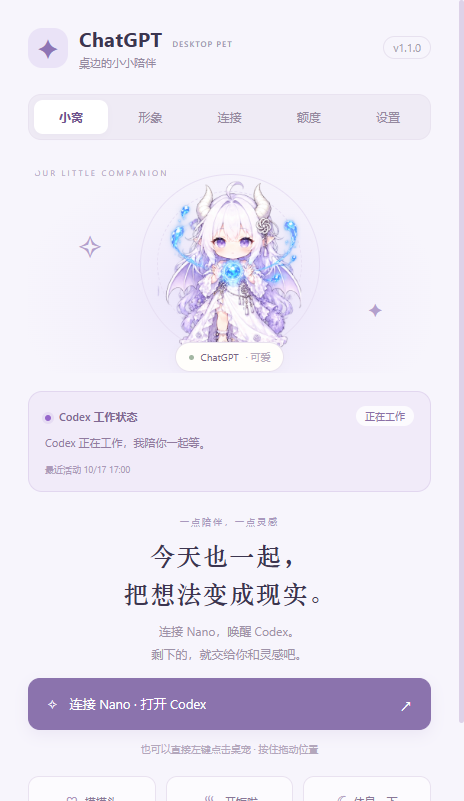
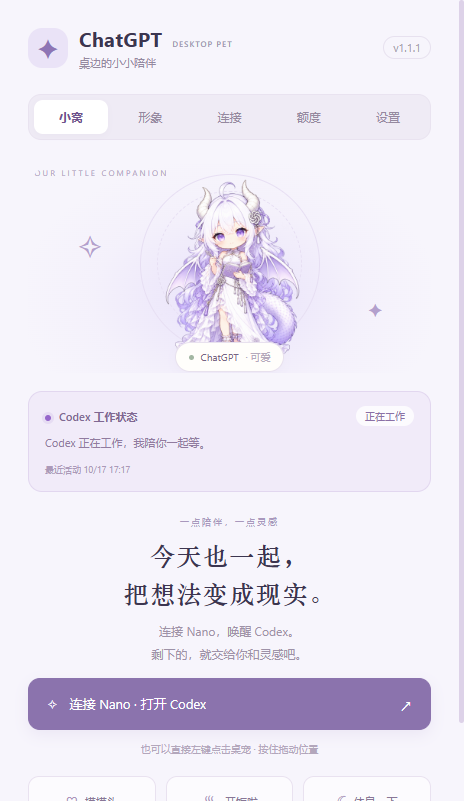
Fix bubble overlap and stale Codex status, redesign working poses

Changed region(s): [[0.3621, 0.2185, 0.6638, 0.437]]

diff --git a/src/renderer/panel.html b/src/renderer/panel.html
@@ -1,6 +1,6 @@
 <!doctype html>
 <html lang="zh-CN"><head><meta charset="utf-8"><meta name="viewport" content="width=device-width,initial-scale=1"><meta http-equiv="Content-Security-Policy" content="default-src 'self'; script-src 'self'; style-src 'self' 'unsafe-inline'; img-src 'self' data:; connect-src 'none'"><title>ChatGPT · 桌边的小小陪伴</title><link rel="stylesheet" href="panel.css"></head>
-<body><div class="app-shell"><header><div class="brand-icon">✦</div><div><div class="brand-name">ChatGPT <span>DESKTOP PET</span></div><p>桌边的小小陪伴</p></div><span class="version">v1.1.0</span></header>
+<body><div class="app-shell"><header><div class="brand-icon">✦</div><div><div class="brand-name">ChatGPT <span>DESKTOP PET</span></div><p>桌边的小小陪伴</p></div><span class="version">v1.1.1</span></header>
 <nav aria-label="页面"><button data-tab="home" class="selected">小窝</button><button data-tab="looks">形象</button><button data-tab="status">连接</button><button data-tab="usage">额度</button><button data-tab="settings">设置</button></nav>
 <main>
 <section id="home" class="page"><div class="hero"><div class="orbit one"></div><div class="orbit two"></div><span class="spark spark-a">✧</span><span class="spark spark-b">✦</span><span class="hero-label">YOUR LITTLE COMPANION</span><canvas class="hero-pet preview" width="500" height="500" aria-label="当前桌宠形象"></canvas><div class="name-tag"><span class="dot"></span><span id="pet-name">ChatGPT</span> <span class="tag-muted" id="appearance-label">· 可爱</span></div></div><div class="activity-card" id="activity-card" role="status" aria-live="polite"><div class="activity-heading"><strong><i class="activity-dot" aria-hidden="true"></i> Codex 工作状态</strong><span id="activity-label">正在读取</span></div><p id="activity-message">正在查看本机工作状态。</p><small id="activity-time"></small></div><div class="welcome"><span class="eyebrow">一点陪伴，一点灵感</span><h1>今天也一起，<br>把想法变成现实。</h1><p>连接 Nano，唤醒 Codex。<br>剩下的，就交给你和灵感吧。</p></div><button class="primary launch-button"><span>✧</span> 连接 Nano · 打开 Codex <span class="arrow">↗</span></button><p class="hint">也可以直接左键点击桌宠 · 按住拖动位置</p><div class="mini-actions"><button data-action="headpat"><span>♡</span>摸摸头</button><button data-action="eat"><span>♨</span>开饭啦</button><button data-action="crouch"><span>☾</span>休息一下</button></div></section>

diff --git a/src/renderer/pet.css b/src/renderer/pet.css
@@ -2,3 +2,6 @@
 
 /* Keep status legible even when the character is tiny. */
 #character{width:min(var(--pet-size,320px),100vw,calc(100vh - 60px));left:50%;margin-left:calc(min(var(--pet-size,320px),100vw,calc(100vh - 60px)) / -2);bottom:24px}#bubble{top:6px;left:50%;width:calc(100% - 16px);max-width:380px;padding:8px 12px;transform:translate(-50%,5px);font-size:12px;line-height:1.45}#bubble.visible{transform:translate(-50%,0)}.bubble-label{display:block;font-size:11px;color:#8c70b1;margin-bottom:3px}.bubble-message{display:block}#home{display:flex;align-items:center;gap:5px;white-space:nowrap;max-width:95%;padding:3px 10px}.activity-dot{display:inline-block;width:6px;height:6px;border-radius:50%;background:#a89ab8;flex-shrink:0}body[data-state="working"] .activity-dot,body[data-state="thinking"] .activity-dot,body[data-state="tool"] .activity-dot{background:#9a73d0;box-shadow:0 0 0 3px #b598d82b}body[data-state="completed"] .activity-dot{background:#81a98d}body[data-state="waiting"] .activity-dot,body[data-state="error"] .activity-dot{background:#c29a59}#bubble[data-state="working"],#bubble[data-state="thinking"],#bubble[data-state="tool"]{border-color:#cbb7e8}#bubble[data-state="waiting"],#bubble[data-state="error"]{border-color:#e5c99a}
+
+/* Separate flow rows guarantee that wrapped bubbles never cover a pose. */
+body{display:flex;flex-direction:column;align-items:center;justify-content:flex-end;gap:12px;padding-top:6px}#bubble{position:relative;top:auto;left:auto;flex:none;transform:none;margin:0 auto;transition:opacity .25s;max-height:none}#bubble.visible{transform:none}#bubble .bubble-message{display:-webkit-box;-webkit-box-orient:vertical;-webkit-line-clamp:4;overflow:hidden}#character-stage{position:relative;flex:none;width:100%;height:calc(var(--sprite-size,0px) + 24px);display:flex;align-items:center;justify-content:center;overflow:hidden}#character{position:static;flex:none;left:auto;bottom:auto;width:var(--sprite-size,0px);height:var(--sprite-size,0px);margin:0}#home{position:relative;left:auto;bottom:auto;transform:none;flex:none;margin:0;min-height:22px;line-height:14px}

diff --git a/src/renderer/pet.js b/src/renderer/pet.js
@@ -3,6 +3,13 @@ const canvas = document.querySelector('#character'), bubble = document.querySele
 let settings = await window.pet.getSettings(), action = 'idle', bubbleTimer, pressed, dragging = false, ignored = false;
 let activity = { state: 'unknown', label: '正在读取状态', message: '正在查看 Codex 的本机工作状态。', action: 'idle' };
 let manualAction = null, transientMessage = null;
+function layout() {
+  // The bubble, padded character stage and name occupy separate flow rows.
+  // Measure wrapped text instead of guessing how much headroom it needs.
+  const reserved = bubble.offsetHeight + home.offsetHeight + 6 + 24 + 24;
+  const size = Math.max(1, Math.min(320 * settings.scale, innerWidth, innerHeight - reserved));
+  document.documentElement.style.setProperty('--sprite-size', size + 'px');
+}
 function renderBubble() {
   const label = transientMessage ? 'ChatGPT' : activity.label.includes('Codex') ? activity.label : 'Codex · ' + activity.label;
   const message = transientMessage || activity.message;
@@ -12,6 +19,7 @@ function renderBubble() {
   bubble.dataset.state = activity.state;
   document.body.dataset.state = activity.state;
   home.title = '打开 ChatGPT 的小窝 · Codex ' + activity.label;
+  layout();
 }
 function say(text) {
   if (!text) return;
@@ -21,7 +29,6 @@ function say(text) {
 function render() {
   action = manualAction || activity.action || 'idle';
   document.body.classList.toggle('quiet', settings.quiet);
-  document.documentElement.style.setProperty('--pet-size', Math.round(320 * settings.scale) + 'px');
   drawSprite(canvas, settings.appearance, action).catch(error => say(error.message));
   renderBubble();
 }
@@ -65,4 +72,6 @@ window.pet.onUpdate(update => {
   render();
 });
 activity = await window.pet.activity();
+new ResizeObserver(layout).observe(bubble);
+window.addEventListener('resize', layout);
 render();

diff --git a/src/renderer/sprites.js b/src/renderer/sprites.js
@@ -1,7 +1,7 @@
 export const states = ['idle', 'wave', 'crouch', 'eat', 'headpat', 'sleep', 'busy', 'success'];
 const images = new Map();
-export function loadSheet(appearance) {
-  const name = appearance === 'mature' ? 'mature' : 'cute';
+export function loadSheet(appearance, working = false) {
+  const name = (appearance === 'mature' ? 'mature' : 'cute') + (working ? '-working' : '');
   if (!images.has(name)) images.set(name, new Promise((resolve, reject) => {
     const image = new Image(); image.onload = () => resolve(image); image.onerror = () => { images.delete(name); reject(new Error('角色图片加载失败')); }; image.src = `../../assets/${name}.png`;
   }));
@@ -9,12 +9,15 @@ export function loadSheet(appearance) {
 }
 export async function drawSprite(canvas, appearance = 'cute', action = 'idle') {
   const request = `${appearance}:${action}`; canvas.dataset.request = request;
-  const image = await loadSheet(appearance);
+  const working = action === 'busy';
+  const image = await loadSheet(appearance, working);
   if (canvas.dataset.request !== request) return;
-  const index = Math.max(0, states.indexOf(action)), sw = image.width / 4, sh = image.height / 2;
+  const index = working ? 0 : Math.max(0, states.indexOf(action));
+  const sw = image.width / (working ? 1 : 4), sh = image.height / (working ? 1 : 2);
   const context = canvas.getContext('2d', { willReadFrequently: true });
   const scale = Math.min(canvas.width / sw, canvas.height / sh);
   context.clearRect(0, 0, canvas.width, canvas.height);
   context.drawImage(image, (index % 4) * sw, Math.floor(index / 4) * sh, sw, sh, (canvas.width - sw * scale) / 2, canvas.height - sh * scale, sw * scale, sh * scale);
   canvas.dataset.action = action;
+  canvas.dataset.asset = (appearance === 'mature' ? 'mature' : 'cute') + (working ? '-working.png' : '.png');
 }

diff --git a/src/renderer/pet.html b/src/renderer/pet.html
@@ -1,3 +1,3 @@
 <!doctype html>
 <html lang="zh-CN"><head><meta charset="utf-8"><meta name="viewport" content="width=device-width,initial-scale=1"><meta http-equiv="Content-Security-Policy" content="default-src 'self'; script-src 'self'; style-src 'self' 'unsafe-inline'; img-src 'self' data:; connect-src 'none'"><title>ChatGPT桌宠</title><link rel="stylesheet" href="pet.css"></head>
-<body><div id="bubble" role="status" aria-live="polite"><strong class="bubble-label">Codex · 正在读取状态</strong><span class="bubble-message">正在查看本机工作状态。</span></div><canvas id="character" width="640" height="640" tabindex="0" aria-label="ChatGPT桌宠。单击连接 Nano 并打开 Codex，右键互动，拖动移动位置"></canvas><button id="home" title="打开ChatGPT的小窝" aria-label="打开控制面板"><i class="activity-dot" aria-hidden="true"></i><span>ChatGPT</span></button><script type="module" src="pet.js"></script></body></html>
+<body><div id="bubble" role="status" aria-live="polite"><strong class="bubble-label">Codex · 正在读取状态</strong><span class="bubble-message">正在查看本机工作状态。</span></div><div id="character-stage"><canvas id="character" width="640" height="640" tabindex="0" aria-label="ChatGPT桌宠。单击连接 Nano 并打开 Codex，右键互动，拖动移动位置"></canvas></div><button id="home" title="打开ChatGPT的小窝" aria-label="打开控制面板"><i class="activity-dot" aria-hidden="true"></i><span>ChatGPT</span></button><script type="module" src="pet.js"></script></body></html>

diff --git a/docs/art-working-v3.md b/docs/art-working-v3.md
@@ -1,0 +1,23 @@
+# Working pose redesign · 1.1.1
+
+The user requested a new working pose. Generated two individual transparent PNG sprites with the built-in `image_gen.imagegen` tool, retaining the existing character identity and layered long skirt. The new pose uses open, attentive eyes and a lavender notebook with a silver pen. It replaces the glowing-orb pose at runtime; all other poses remain unchanged.
+
+Final assets: `assets/cute-working.png` and `assets/mature-working.png`. The renderer fits each full image into its character canvas and preserves the generated alpha without raster edits.
+
+## Cute prompt
+
+```text
+Create ONE new full-body WORKING pose sprite for a desktop pet, actual transparent RGBA background. This is a redesign of the unpleasant glowing-orb working pose in the attached sprite sheet. Reference image 1 supplies the established character identity and flowing multilayer white/lavender long dress; reference image 2 supplies precise horns, ears, face, lavender dragon wings, white-to-lavender curled scaled tail, knot-shaped hair ornament and ahoge. Match the character consistently, especially the pleasant OPEN lavender eyes of the FIRST idle frame, NOT the sleepy heavy-lidded or stern expression of the old working frame.
+New design: she is quietly taking notes in a small elegant lavender notebook held at waist level in her left hand, with a slim silver pen naturally held in her right hand. Notebook low enough to reveal the neckline and most of the beautiful layered gown. Face looks slightly toward the viewer with bright attentive open eyes, a subtle warm smile and gentle focused expression. Natural graceful standing posture, relaxed shoulders, no exaggerated gesture. Softly folded but visible lavender dragon wings, tail curving beside the skirt. Keep both ivory ridged horns and the curled ahoge, long white-silver hair with lilac tips, woven knot hair ornament with tassel, small white shoes, and the previous elaborate cascading sheer white/lavender skirt. Clear face and clean silhouette, delicate polished anime illustration with crisp high quality lines and very soft shading.
+Output ONE isolated full-body character on a square 1024x1024 transparent canvas. Center horizontally, horns/ahoge around 5% down canvas and shoes/hem around 94% down; occupy roughly 90% canvas height with clear transparent margins around wings and tail. All hair, horns, skirt, wings, tail, pen and book completely inside frame, no cropped edges. NO sheet, NO multiple figures. No orb, no blue lights, no glowing swirl, no floating holograms, no particles or hearts, no text or watermark, no checkerboard or solid-color backdrop, no floor shadows. Fully clothed and nonsexual.
+CUTE variation: match the chibi identity of the reference: about 3 heads tall, large round bright lavender eyes, compact adorable body and small hands. Calm sweet concentration; cute and energetic without a childish pout.
+```
+
+## Mature prompt
+
+```text
+Create ONE new full-body WORKING pose sprite for a desktop pet, actual transparent RGBA background. This is a redesign of the unpleasant glowing-orb working pose in the attached sprite sheet. Reference image 1 supplies the established character identity and flowing multilayer white/lavender long dress; reference image 2 supplies precise horns, ears, face, lavender dragon wings, white-to-lavender curled scaled tail, knot-shaped hair ornament and ahoge. Match the character consistently, especially the pleasant OPEN lavender eyes of the FIRST idle frame, NOT the sleepy heavy-lidded or stern expression of the old working frame.
+New design: she is quietly taking notes in a small elegant lavender notebook held at waist level in her left hand, with a slim silver pen naturally held in her right hand. Notebook low enough to reveal the neckline and most of the beautiful layered gown. Face looks slightly toward the viewer with bright attentive open eyes, a subtle warm smile and gentle focused expression. Natural graceful standing posture, relaxed shoulders, no exaggerated gesture. Softly folded but visible lavender dragon wings, tail curving beside the skirt. Keep both ivory ridged horns and the curled ahoge, long white-silver hair with lilac tips, woven knot hair ornament with tassel, small white shoes, and the previous elaborate cascading sheer white/lavender skirt. Clear face and clean silhouette, delicate polished anime illustration with crisp high quality lines and very soft shading.
+Output ONE isolated full-body character on a square 1024x1024 transparent canvas. Center horizontally, horns/ahoge around 5% down canvas and shoes/hem around 94% down; occupy roughly 90% canvas height with clear transparent margins around wings and tail. All hair, horns, skirt, wings, tail, pen and book completely inside frame, no cropped edges. NO sheet, NO multiple figures. No orb, no blue lights, no glowing swirl, no floating holograms, no particles or hearts, no text or watermark, no checkerboard or solid-color backdrop, no floor shadows. Fully clothed and nonsexual.
+MATURE variation: match the elegant adult woman identity and 6.5-head-tall adult proportions of the reference; refined beautiful face, alert lavender eyes and graceful relaxed pose. NOT chibi. Retain the flowing long asymmetric layered gown, refined lace and sheer ruffles. Friendly serene focus, not tired or stern.
+```

diff --git a/README.md b/README.md
@@ -18,7 +18,7 @@
 | 点击角色脚下的「ChatGPT」 | 打开小窝控制面板 |
 | 系统托盘右键 | 互动、找回隐藏的桌宠、退出 |
 
-两套形象：**可爱**与**成熟**，名字都叫 **ChatGPT**。每套 8 个独立动作画面，搭配轻微呼吸、摇摆动画；「安静模式」可暂停动画。支持 25%–300% 大小、置顶、位置记忆及屏幕变化后的位置恢复。透明区域可穿透点击。小尺寸仍保留清晰的状态气泡；大尺寸自动限制在当前屏幕工作区。
+两套形象：**可爱**与**成熟**，名字都叫 **ChatGPT**。每套 8 个动作，工作时使用独立重绘的记笔记形象，搭配轻微呼吸、摇摆动画；「安静模式」可暂停动画。支持 25%–300% 大小、置顶、位置记忆及屏幕变化后的位置恢复。透明区域可穿透点击。气泡与角色独立排布，不遮住头部；小尺寸保持文字可读，大尺寸自动限制在当前屏幕工作区。
 
 ## Codex 工作状态
 
@@ -60,6 +60,8 @@ npm run dist
 所有偏好保存在 `%APPDATA%/linglong-codex-pet/`，应用路径只保存在本机。桌宠不上传配置、会话或账户凭据，不读取 `auth.json`，不在渲染进程开放 Node.js。渲染页面只加载本地资源，IPC 采用固定动作和发送者校验。查询额度会短暂启动官方 Codex app-server，由官方进程使用已有登录状态；不发送模型任务。
 
 ## 素材与参考
+
+- [工作姿态重绘提示词](docs/art-working-v3.md)：可爱与成熟两张独立透明素材，拿笔记本记录灵感，不使用光球特效。
 
 - [新版形象提示词与制作记录](docs/art-prompts-v2.md)：按用户提供的新三视图更新形象，并保留之前长裙的层叠特征，使用内置 imagegen 绘制两张透明 4×2 精灵表，没有复制其他桌宠仓库素材。
 - [官方桌宠、开源项目与实现文档](docs/references.md)

diff --git a/docs/RELEASE_NOTES_1.1.1.md b/docs/RELEASE_NOTES_1.1.1.md
@@ -1,0 +1,9 @@
+# ChatGPT 桌宠 1.1.1
+
+- 气泡与角色改为独立排布，根据气泡实际高度计算角色可用空间。长文本、缩放和动作动画都不会让气泡遮住头部。
+- 修复 Codex 旧会话索引残留导致任务结束后一直显示“工作状态待确认”的问题。明确缺失、超过 24 小时且从未实际观察到的历史记录不再干扰当前状态；当前会话丢失和权限错误仍会如实提示。
+- 可爱、成熟两种工作形象重新绘制为睁眼专注、拿笔记本记录灵感的姿态，去掉蓝色光球与夸张光效；原有长裙特征和其他动作保留。
+
+37 项自动测试通过；真实 Electron 窗口覆盖长气泡、多档大小、两套新工作素材、工作/完成/中断状态和重启恢复。本机实际监测已确认能够识别正在工作的会话。
+
+下载 `ChatGPT-Pet-Setup-1.1.1.exe` 覆盖安装即可，保留现有偏好和开机自启动。
